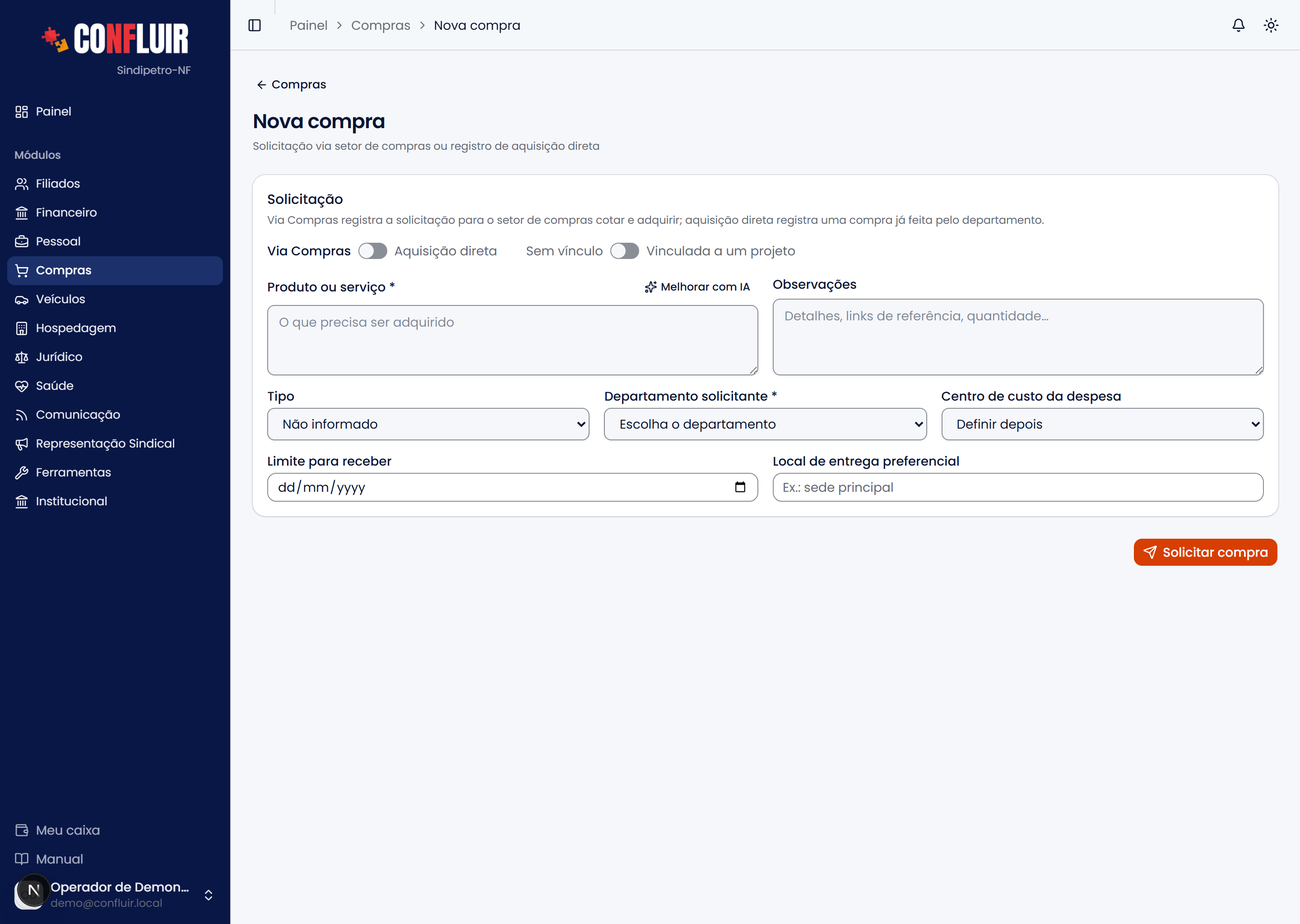
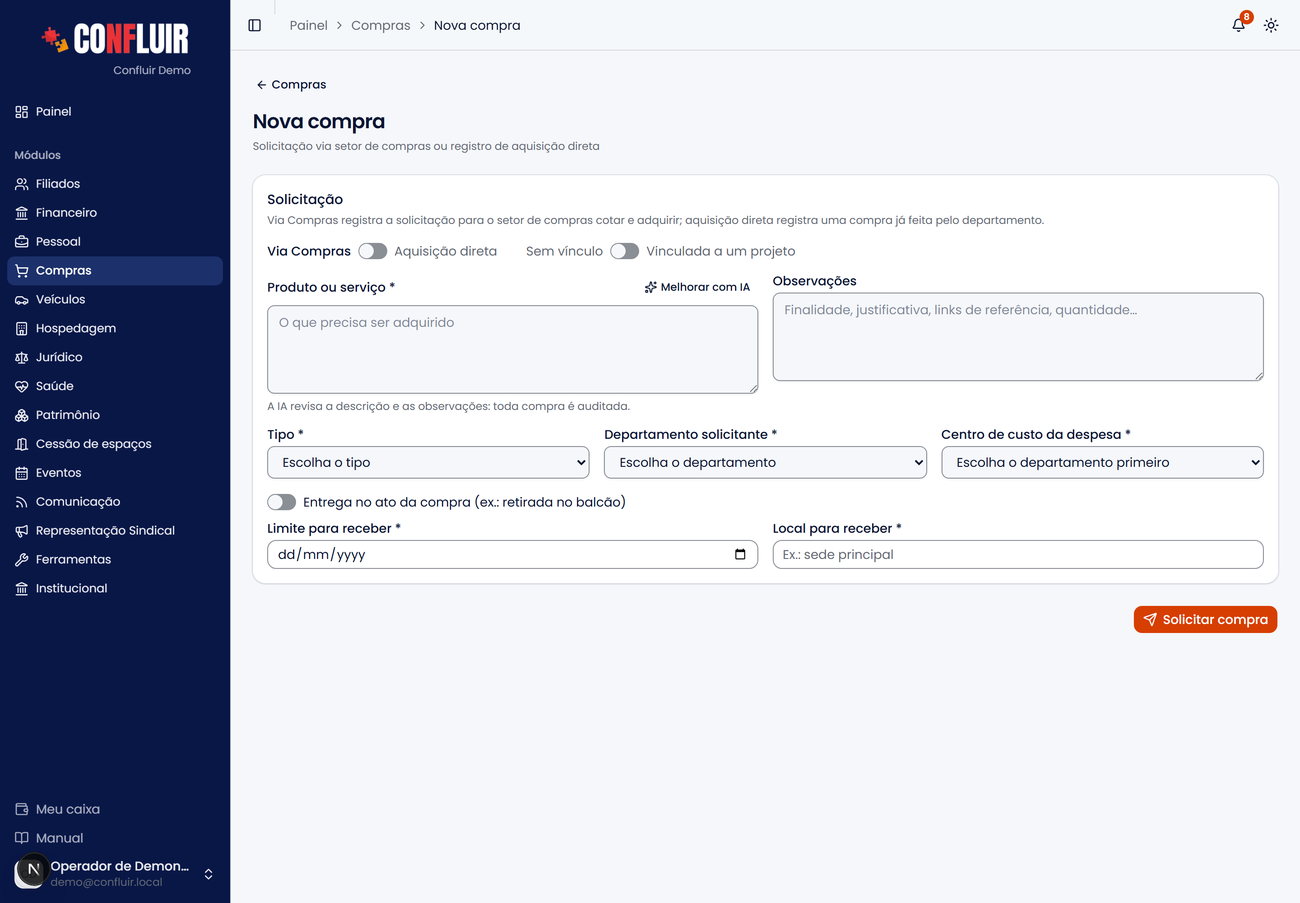
Manual: Compras (IA, semiautomático, formas de pagamento) e Financeiro → Cartões
- compras/comprar: campos obrigatórios e observação facultativa, "entregue
  no ato da compra", Melhorar com IA, modos Manual e Semiautomático, o que
  cada forma de pagamento pede e erros comuns.
- financeiro/cartoes (nova), "pago com" na ordem, compra em dinheiro no caixa.
- Prints novos pela rodada (9) do manual-prints.mjs, que ganhou `passos`.
- Trilha: "Cartões" e "Centros de custo" com acento/preposição.

diff --git a/src/lib/ajuda/base-conhecimento.ts b/src/lib/ajuda/base-conhecimento.ts
@@ -7,7 +7,7 @@ export const BASE_AJUDA: ArtigoBase[] = [
   {
     "area": "compras",
     "slug": "comprar",
-    "texto": "Toda aquisição nasce em Compras → Nova compra. No topo do formulário você\nescolhe o caminho (Via Compras ou Aquisição direta) e se a compra está\nvinculada a um projeto. O restante do formulário se adapta a essa escolha.\n\n Compras — editar \n\n Direta × via Compras: qual usar\n\n \n \nAquisição direta — a compra já foi feita: \n Use quando o departamento já adquiriu o bem ou serviço. Você registra o\n fornecedor, o valor e a nota; o sistema cria a ordem de pagamento em\n autorização na sequência. É o caminho de compras simples e do dia a dia.\n \n \nVia Compras — a compra ainda vai acontecer: \n Use quando é preciso cotar antes de comprar. O departamento apenas\n solicita; o comprador recebe, cota com fornecedores, compara as\n propostas e efetiva a compra. É o caminho de valores maiores.\n \n \n\n \n\n Quem registra e por quais departamentos\n\n- Via Compras exige a permissão Compras — editar.\n- Aquisição direta exige a permissão própria Compras — registrar\n aquisição direta. Quem tem só uma das duas vê o seletor do topo travado na\n modalidade que pode usar.\n- Departamentos: em Institucional → Usuários e permissões, cada pessoa pode\n ficar restrita a alguns departamentos. Nesse caso ela só escolhe esses\n departamentos na nova compra e, na lista, só vê as compras deles — mais as\n que ela mesma registrou. Sem departamento marcado, alcança todos. O\n comprador (setor central) continua vendo e operando todos os processos.\n- As compras antigas, sem departamento, só aparecem para quem alcança todos.\n\n Os campos comuns às duas modalidades\n\nIndependentemente do caminho, estes campos aparecem — e alguns são\nobrigatórios:\n\n- Produto ou serviço (obrigatório) — o que está sendo adquirido. O botão\n Melhorar com IA reescreve o rascunho de forma mais clara e padronizada.\n- Departamento solicitante (obrigatório) — quem está pedindo. Ele também\n filtra os centros de custo logo abaixo.\n- Centro de custo da despesa (obrigatório) — a classificação contábil. A\n lista mostra apenas os centros do departamento escolhido.\n- Vinculada a um projeto — quando ligada, aparece o campo Projeto.\n\nCentro de custo agora é obrigatório: \n A compra não é registrada sem um centro de custo da despesa. Se o campo\n estiver vazio, escolha o departamento primeiro — a lista de centros\n aparece filtrada por ele.\n \n\nProjeto define o centro automaticamente: \n Ao marcar Vinculada a um projeto e escolher o projeto, o centro de custo\n do projeto é atribuído à despesa e o campo fica travado nesse valor —\n você não precisa (nem consegue) escolher outro. Assim a despesa cai sempre no\n centro certo do projeto.\n \n\n Registrar uma aquisição direta\n\n \n \nEscolha 'Aquisição direta': \n No seletor do topo, mude para Aquisição direta. Surge o bloco com os\n dados da compra já feita.\n \n \nPreencha os campos comuns: \n Produto, departamento e centro de custo (obrigatórios), como acima.\n \n \nFornecedor, data e valor: \n Busque e selecione o fornecedor, informe a data da compra e o\n valor (todos obrigatórios).\n \n \nForma de pagamento e 'Pagar em': \n Escolha a forma de pagamento e a data em Pagar em — as duas são\n obrigatórias na aquisição direta, porque a ordem de pagamento nasce daqui.\n \n \nNota fiscal (opcional): \n Anexe o PDF da nota, se tiver. Aceita até 5 MB.\n \n \nProduto recebido?: \n A chave Produto recebido ou serviço entregue? já vem ligada. Deixe\n ligada se o item já chegou; desligue se ainda vai chegar — nesse caso ele\n entra em Recebimentos pendentes para a recepção dar baixa depois.\n \n \nCadastrar: \n Ao salvar, o processo nasce comprado e uma ordem de pagamento é\n gerada com situação Em autorização (aprovação por alçada antes do\n pagamento).\n \n \n\nForma de pagamento e 'Pagar em' são obrigatórias: \n Na aquisição direta as duas passaram a ser exigidas — sem elas a compra não é\n registrada. (Na solicitação via Compras elas não aparecem: são definidas\n depois, na proposta escolhida.)\n \n\n Solicitar via Compras\n\n \n \nDeixe em 'Via Compras': \n É o padrão do formulário. Não aparecem fornecedor nem valor — isso vem da\n cotação.\n \n \nDescreva o que precisa: \n Produto ou serviço, departamento e centro de custo. Em Observações,\n detalhe quantidade, referências e links.\n \n \nPrazo e local (opcionais): \n Limite para receber e Local de entrega preferencial orientam o\n comprador e a recepção.\n \n \nSolicitar: \n A solicitação entra na fila do comprador (situação Solicitada), pronta\n para ser cotada.\n \n \n\n O ciclo de um processo via Compras\n\nDepois de solicitado, o processo é operado pelo comprador, na Área do\ncomprador (que reúne tudo que aguarda ação) ou abrindo o processo pela lista.\nCada etapa é uma ação no próprio processo:\n\n \n \nIniciar cotação: \n Abre a cotação: a partir daí você pode lançar propostas. A situação muda para\n Em cotação.\n \n \nLançar as propostas: \n Adicione uma proposta por fornecedor: fornecedor, valor, forma de pagamento e\n previsão de entrega. Você pode adicionar quantas quiser.\n \n \nEncerrar e escolher: \n Encerre a cotação e marque a(s) proposta(s) escolhida(s). A situação vai\n para Cotada.\n \n \nRegistrar a compra: \n Confirma a compra das propostas escolhidas: cada proposta vira um\n fornecimento e o processo fica Comprado (o valor é a soma dos\n fornecimentos).\n \n \nGerar a ordem de pagamento: \n De cada fornecimento sai uma ordem em autorização — que segue para a\n aprovação por alçada, como na compra direta.\n \n \n\nÁrea do comprador: a fila de trabalho: \n Em Compras → Área do comprador, os processos via Compras aparecem\n agrupados por etapa — Solicitadas (iniciar cotação), Em cotação e\n Cotadas — a comprar — com o prazo em destaque (vermelho quando vencido).\n Clique num item para operar. Comprador \n \n\n \n\n Aprovação por alçada\n\n Avaliação de ordens (alçada) \n\nToda ordem gerada por uma compra — direta ou via Compras — passa por\nCompras → Avaliações. Cada avaliador vê as ordens dentro da sua alçada\n(o teto de valor que pode autorizar) e as acima da alçada apenas como\ncontexto, sem poder aprovar. Nada é pago antes dessa autorização.\n\nO que é alçada: \n Alçada é o valor máximo que uma pessoa pode autorizar sozinha. É definida no\n perfil de acesso, em Usuários e permissões. Uma ordem acima da sua alçada\n precisa de quem tenha alçada maior.\n \n\n Recebimento\n\nQuando o item chega, a baixa é feita em Compras → Recebimentos pendentes.\nAparecem ali a aquisição direta marcada como não recebida e os\nfornecimentos via Compras já comprados. A recepção abre o item, confere e\nregistra a chegada. Recebimentos \n\n Erros comuns\n\n- \"Não consigo salvar — o centro de custo fica vazio.\" Escolha o\n departamento primeiro; a lista de centros aparece filtrada por ele. Se a\n compra é de um projeto, marque Vinculada a um projeto — o centro vem do\n projeto automaticamente.\n- \"A forma de pagamento não deixa cadastrar a compra direta.\" Na aquisição\n direta, Forma de pagamento e Pagar em são obrigatórias.\n- O fornecedor não aparece na busca. Ele precisa estar cadastrado em\n Fornecedores e não estar bloqueado. Ver\n Fornecedores.\n- Registrei a compra mas o pagamento não sai. A ordem nasce Em\n autorização — ela só é paga depois de aprovada por quem tem alçada, em\n Avaliações.\n- Comprei via Compras mas não consigo escolher a proposta. É preciso\n encerrar a cotação antes de escolher; e escolher ao menos uma proposta\n antes de registrar a compra.\n- O item não aparece em Recebimentos. Só entra o que está por receber:\n compra direta com \"produto recebido\" desligado, ou via Compras já\n comprado. O que já foi recebido não aparece."
+    "texto": "Toda aquisição nasce em Compras → Nova compra. No topo do formulário você\nescolhe o caminho (Via Compras ou Aquisição direta) e se a compra está\nvinculada a um projeto. O restante do formulário se adapta a essa escolha.\n\n Compras — editar \n\n Direta × via Compras: qual usar\n\n \n \nAquisição direta — a compra já foi feita: \n Use quando o departamento já adquiriu o bem ou serviço. Você registra o\n fornecedor, o valor e a nota; o sistema cria a ordem de pagamento em\n autorização na sequência. É o caminho de compras simples e do dia a dia.\n \n \nVia Compras — a compra ainda vai acontecer: \n Use quando é preciso cotar antes de comprar. O departamento apenas\n solicita; o comprador recebe, cota com fornecedores, compara as\n propostas e efetiva a compra. É o caminho de valores maiores.\n \n \n\n Quem registra e por quais departamentos\n\n- Via Compras exige a permissão Compras — editar.\n- Aquisição direta exige a permissão própria Compras — registrar\n aquisição direta. Quem tem só uma das duas vê o seletor do topo travado na\n modalidade que pode usar.\n- Departamentos: em Institucional → Usuários e permissões, cada pessoa pode\n ficar restrita a alguns departamentos. Nesse caso ela só escolhe esses\n departamentos na nova compra e, na lista, só vê as compras deles — mais as\n que ela mesma registrou. Sem departamento marcado, alcança todos. O\n comprador (setor central) continua vendo e operando todos os processos.\n- As compras antigas, sem departamento, só aparecem para quem alcança todos.\n\n Os campos comuns às duas modalidades\n\nToda compra é auditada — pelo Conselho Fiscal, pela contabilidade e na\nprestação de contas à categoria. Por isso o formulário só deixa registrar com\ntudo preenchido; a única exceção é a observação.\n\n- Produto ou serviço (obrigatório) — o que está sendo adquirido: o quê,\n quanto (quantidade e unidade) e as especificações que importam.\n- Observações (facultativo) — finalidade, justificativa, referências e\n links. Não é obrigatório, mas é o que explica a despesa a quem audita depois.\n- Tipo (obrigatório) — Bem / produto ou Prestação de serviço.\n- Departamento solicitante (obrigatório) — quem está pedindo. Ele também\n filtra os centros de custo logo abaixo.\n- Centro de custo da despesa (obrigatório) — a classificação contábil. A\n lista mostra apenas os centros do departamento escolhido.\n- Vinculada a um projeto — quando ligada, o Projeto passa a ser\n obrigatório.\n- Entregue no ato da compra — diz se o produto ou serviço é entregue na\n hora (comprou no balcão e levou, o serviço foi prestado ali). Quando\n desligada, aparecem Limite para receber e Local para receber, os\n dois obrigatórios; quando ligada, eles não se aplicam e somem.\n\nMelhorar com IA: a redação que a auditoria espera: \n Escreva um rascunho — mesmo informal — em Produto ou serviço e, se\n quiser, em Observações, e clique em Melhorar com IA. A IA reescreve\n os dois textos em tom formal e impessoal, com quantidade, unidade e\n finalidade, sem inventar nada que você não escreveu (marca, valor,\n fornecedor). Observação em branco continua em branco. Confira antes de salvar:\n a responsabilidade pelo texto continua sendo de quem registra.\n \n\nCentro de custo é obrigatório: \n A compra não é registrada sem um centro de custo da despesa. Se o campo\n estiver vazio, escolha o departamento primeiro — a lista de centros\n aparece filtrada por ele.\n \n\nProjeto define o centro automaticamente: \n Ao marcar Vinculada a um projeto e escolher o projeto, o centro de custo\n do projeto é atribuído à despesa e o campo fica travado nesse valor —\n você não precisa (nem consegue) escolher outro. Assim a despesa cai sempre no\n centro certo do projeto.\n \n\n Registrar uma aquisição direta\n\nAo mudar para Aquisição direta, o formulário pergunta Como preencher?:\n\n- Manual — você digita todos os campos da compra.\n- Semiautomático — você envia a nota fiscal, o cupom ou documento\n equivalente e a IA lê o documento e preenche o formulário para você\n conferir (veja Preenchimento semiautomático pela nota, mais abaixo).\n\n \n\n \n \nEscolha 'Aquisição direta' e o modo: \n No seletor do topo, mude para Aquisição direta e escolha Manual ou\n Semiautomático. Os campos aparecem depois da escolha.\n \n \nPreencha os campos comuns: \n Produto, tipo, departamento e centro de custo (obrigatórios), como acima.\n Na compra direta, Entregue no ato da compra já vem ligada — o normal\n é o item já ter chegado.\n \n \nFornecedor, data e valor: \n Busque e selecione o fornecedor, informe a data da compra e o\n valor (todos obrigatórios).\n \n \nForma de pagamento, com o quê foi pago e 'Pagar em': \n Escolha a forma de pagamento — cada forma pede o seu complemento (veja a\n tabela abaixo) — e a data em Pagar em. Tudo obrigatório: a ordem de\n pagamento nasce daqui.\n \n \nNota fiscal (obrigatória): \n Anexe a nota fiscal, o cupom ou documento equivalente — em PDF ou\n foto (JPG, PNG ou WEBP). Fotos grandes de celular são reduzidas\n automaticamente antes do envio.\n \n \nCadastrar: \n Ao salvar, o processo nasce comprado e uma ordem de pagamento é\n gerada com situação Em autorização (aprovação por alçada antes do\n pagamento). Se você desligou Entregue no ato da compra, o item entra em\n Recebimentos pendentes para a recepção dar baixa quando chegar.\n \n \n\n Formas de pagamento: o que cada uma pede\n\nA forma sozinha não basta para a auditoria — é preciso dizer com o quê a\ncompra foi paga. Ao escolher a forma, aparece o campo correspondente:\n\n- Cartão — qual cartão da entidade foi usado. Os cartões são\n cadastrados pelo financeiro em Cartões.\n- Dinheiro — de qual conta de caixa saiu o dinheiro. O valor é\n debitado desse caixa na hora; sem saldo suficiente, a compra não é\n registrada.\n- Pix — a chave Pix do fornecedor, com o tipo. Escolha uma já\n cadastrada ou informe outra — a nova fica gravada no cadastro dele.\n- Pix (QR Code) — o código Pix copia e cola usado no pagamento (começa\n com 000201).\n- Depósito bancário (TED) — a conta do fornecedor que recebeu: escolha\n uma cadastrada ou informe banco, agência, conta, tipo e favorecido.\n- Boleto — o arquivo do boleto (PDF ou foto).\n\n \n\nA ordem mostra com o quê foi pago: \n Na ordem de pagamento gerada, o campo\n Pago com traz o cartão, o caixa, a chave ou a conta usados; o código Pix\n e o boleto ficam nos campos próprios da ordem.\n \n\nNota e boleto juntos: até 4 MB: \n A nota e o boleto vão no mesmo envio, que tem limite de cerca de 4 MB somados.\n Se passar, a tela avisa antes de enviar — prefira o PDF original a uma\n digitalização em alta resolução.\n \n\n Preenchimento semiautomático pela nota\n\n \n \nEnvie o documento: \n Escolha Semiautomático, selecione o arquivo da nota, do cupom ou do\n recibo (PDF ou foto) e clique em Ler com IA. Leva alguns segundos.\n \n \nConfira o que a IA preencheu: \n A IA preenche a descrição a partir dos itens do documento, a\n observação com os dados fiscais (número, série, data, chave de acesso,\n emitente, total, desconto e forma de pagamento), além de tipo,\n valor pago, data da compra, forma de pagamento e, quando houver\n duplicata ou boleto, o vencimento. O que ficou ilegível ou não consta no\n documento aparece num aviso amarelo, para você completar à mão.\n \n \nFornecedor: \n O sistema procura o emitente no cadastro — pelo CNPJ/CPF e, sem ele,\n pelo nome. Se encontrar, já deixa selecionado (e avisa se o achou só pelo\n nome, ou se o fornecedor está bloqueado). Se não encontrar, mostra os\n dados lidos — razão social, nome fantasia, CNPJ/CPF e endereço — para você\n conferir e clicar em Confirmar e cadastrar fornecedor. Nada é cadastrado\n sem essa confirmação.\n \n \nComplete e cadastre: \n Preencha o que a nota não traz — departamento, centro de custo, o\n complemento da forma de pagamento e Pagar em — e cadastre a compra. O\n arquivo lido já fica anexado como nota fiscal.\n \n \n\n \n\nA IA ajuda, quem registra confere: \n A leitura é boa, mas não é infalível — sobretudo em fotos tortas ou\n borradas. Confira valor, data e CNPJ com o documento antes de cadastrar; se o\n CNPJ lido não fecha nos dígitos verificadores, o sistema avisa.\n \n\n Solicitar via Compras\n\n \n \nDeixe em 'Via Compras': \n É o padrão do formulário. Não aparecem fornecedor nem valor — isso vem da\n cotação.\n \n \nDescreva o que precisa: \n Produto ou serviço, tipo, departamento e centro de custo. Em\n Observações (facultativo), detalhe finalidade, referências e links.\n \n \nEntrega: prazo e local: \n Se a entrega não for no ato da compra (o normal numa solicitação),\n informe Limite para receber e Local para receber — obrigatórios,\n porque orientam o comprador e a recepção. Se o item será retirado na hora\n (ex.: no balcão), ligue Entregue no ato da compra e os dois somem.\n \n \nSolicitar: \n A solicitação entra na fila do comprador (situação Solicitada), pronta\n para ser cotada.\n \n \n\n \n\n O ciclo de um processo via Compras\n\nDepois de solicitado, o processo é operado pelo comprador, na Área do\ncomprador (que reúne tudo que aguarda ação) ou abrindo o processo pela lista.\nCada etapa é uma ação no próprio processo:\n\n \n \nIniciar cotação: \n Abre a cotação: a partir daí você pode lançar propostas. A situação muda para\n Em cotação.\n \n \nLançar as propostas: \n Adicione uma proposta por fornecedor: fornecedor, valor, forma de pagamento e\n previsão de entrega. Você pode adicionar quantas quiser.\n \n \nEncerrar e escolher: \n Encerre a cotação e marque a(s) proposta(s) escolhida(s). A situação vai\n para Cotada.\n \n \nRegistrar a compra: \n Confirma a compra das propostas escolhidas: cada proposta vira um\n fornecimento e o processo fica Comprado (o valor é a soma dos\n fornecimentos).\n \n \nGerar a ordem de pagamento: \n De cada fornecimento sai uma ordem em autorização — que segue para a\n aprovação por alçada, como na compra direta.\n \n \n\nÁrea do comprador: a fila de trabalho: \n Em Compras → Área do comprador, os processos via Compras aparecem\n agrupados por etapa — Solicitadas (iniciar cotação), Em cotação e\n Cotadas — a comprar — com o prazo em destaque (vermelho quando vencido).\n Clique num item para operar. Comprador \n \n\n \n\n Aprovação por alçada\n\n Avaliação de ordens (alçada) \n\nToda ordem gerada por uma compra — direta ou via Compras — passa por\nCompras → Avaliações. Cada avaliador vê as ordens dentro da sua alçada\n(o teto de valor que pode autorizar) e as acima da alçada apenas como\ncontexto, sem poder aprovar. Nada é pago antes dessa autorização.\n\nO que é alçada: \n Alçada é o valor máximo que uma pessoa pode autorizar sozinha. É definida no\n perfil de acesso, em Usuários e permissões. Uma ordem acima da sua alçada\n precisa de quem tenha alçada maior.\n \n\n Recebimento\n\nQuando o item chega, a baixa é feita em Compras → Recebimentos pendentes.\nAparecem ali a aquisição direta marcada como não recebida e os\nfornecimentos via Compras já comprados. A recepção abre o item, confere e\nregistra a chegada. Recebimentos \n\n Erros comuns\n\n- \"Não consigo salvar — o centro de custo fica vazio.\" Escolha o\n departamento primeiro; a lista de centros aparece filtrada por ele. Se a\n compra é de um projeto, marque Vinculada a um projeto — o centro vem do\n projeto automaticamente.\n- \"A compra direta não é cadastrada e diz o que falta.\" Na aquisição\n direta tudo é obrigatório — inclusive Pagar em, a nota e o\n complemento da forma de pagamento (cartão, caixa, chave, conta, código Pix\n ou boleto). Só a observação é facultativa.\n- \"Não aparece nenhum cartão / nenhum caixa.\" Cartões são cadastrados pelo\n financeiro em Financeiro → Cartões; o caixa precisa estar aberto e\n abastecido em Financeiro → Contas de caixa.\n- \"Saldo insuficiente no caixa.\" A compra em dinheiro sai do caixa\n escolhido. Peça um aporte ao financeiro antes de lançar.\n- \"A IA não achou o fornecedor, mas ele existe.\" A busca é pelo CNPJ/CPF e\n pelo nome exato. Se o cadastro está com outro CNPJ (filial) ou nome\n diferente, não clique em cadastrar: busque o fornecedor certo no campo\n Fornecedor.\n- O fornecedor não aparece na busca. Ele precisa estar cadastrado em\n Fornecedores e não estar bloqueado. Ver\n Fornecedores.\n- Registrei a compra mas o pagamento não sai. A ordem nasce Em\n autorização — ela só é paga depois de aprovada por quem tem alçada, em\n Avaliações.\n- Comprei via Compras mas não consigo escolher a proposta. É preciso\n encerrar a cotação antes de escolher; e escolher ao menos uma proposta\n antes de registrar a compra.\n- O item não aparece em Recebimentos. Só entra o que está por receber:\n compra direta com Entregue no ato da compra desligada, ou via Compras já\n comprado. O que já foi recebido não aparece."
   },
   {
     "area": "compras",
@@ -22,7 +22,7 @@ export const BASE_AJUDA: ArtigoBase[] = [
   {
     "area": "compras",
     "slug": "index",
-    "texto": "O módulo Compras cobre todo o ciclo de uma aquisição: da solicitação e da\ncotação até a aprovação por alçada, a compra, o recebimento e o pagamento —\nalém dos contratos com fornecedores e do cadastro de quem fornece.\n\n Compras \n\n Dois caminhos para toda compra\n\nToda aquisição começa em Nova compra e segue por um de dois caminhos. Saber\nqual usar evita metade das dúvidas:\n\n- Aquisição direta — a compra já foi feita pelo departamento (você foi à\n loja, contratou o serviço, já tem a nota). Aqui você apenas registra o que\n aconteceu; o sistema gera a ordem de pagamento em autorização.\n- Via Compras — a compra ainda vai acontecer e precisa de cotação. O\n departamento solicita, o comprador cota com fornecedores, compara as\n propostas, escolhe e compra. É o caminho para valores maiores ou quando é\n preciso comparar preços.\n\nNa dúvida entre os dois: \n Se o dinheiro já saiu (ou a compra já está fechada), é direta. Se você\n está pedindo para o setor de compras providenciar, é via Compras.\n \n\n As áreas do módulo\n\n \n \nNova compra: \n Onde toda aquisição nasce — direta ou via Compras. Ver\n Comprar.\n \n \nÁrea do comprador: \n A fila de trabalho de quem cota e compra: os processos via Compras que\n aguardam ação, agrupados por etapa (solicitados, em cotação, cotados a\n comprar). Comprador \n \n \nAvaliações: \n A fila de ordens aguardando aprovação por alçada — cada uma cai para\n quem pode autorizar aquele valor. Nada é pago sem passar por aqui.\n Avaliação de ordens (alçada) \n \n \nRecebimentos pendentes: \n O que ainda vai chegar: aquisição direta marcada como não recebida e via\n Compras já comprado. A recepção confere e dá baixa quando o item entra.\n Recebimentos \n \n \nContratos e Fornecedores: \n Os contratos com fornecedores (vigência, aditivos e geração de ordens), as\n minutas que a IA redige e as partes assinam eletronicamente, e o cadastro de\n quem fornece (endereços, dados bancários). Ver Minutas de contrato.\n \n \n\n \n\n Quem faz o quê\n\n- O departamento solicitante abre a solicitação (via Compras) ou registra a\n compra direta que fez.\n- O comprador opera os processos via Compras: abre a cotação, lança as\n propostas, escolhe e compra. Trabalha pela Área do comprador.\n- Quem tem alçada autoriza as ordens em Avaliações, dentro do seu limite\n de valor.\n- A recepção dá baixa nas entregas em Recebimentos pendentes.\n\nCada papel é uma permissão: \n Uma mesma pessoa pode acumular papéis, mas eles são liberados separadamente em\n Institucional → Usuários e permissões (Comprador, Avaliação de ordens,\n Recebimentos, Compras — editar). Ver\n Usuários e permissões.\n \n\nAjudas institucionais não são compras: \n Apoios da entidade a organizações apoiadas ficam em Institucional → Ajudas\n institucionais, não aqui."
+    "texto": "O módulo Compras cobre todo o ciclo de uma aquisição: da solicitação e da\ncotação até a aprovação por alçada, a compra, o recebimento e o pagamento —\nalém dos contratos com fornecedores e do cadastro de quem fornece.\n\n Compras \n\n Dois caminhos para toda compra\n\nToda aquisição começa em Nova compra e segue por um de dois caminhos. Saber\nqual usar evita metade das dúvidas:\n\n- Aquisição direta — a compra já foi feita pelo departamento (você foi à\n loja, contratou o serviço, já tem a nota). Aqui você apenas registra o que\n aconteceu; o sistema gera a ordem de pagamento em autorização.\n- Via Compras — a compra ainda vai acontecer e precisa de cotação. O\n departamento solicita, o comprador cota com fornecedores, compara as\n propostas, escolhe e compra. É o caminho para valores maiores ou quando é\n preciso comparar preços.\n\nNa dúvida entre os dois: \n Se o dinheiro já saiu (ou a compra já está fechada), é direta. Se você\n está pedindo para o setor de compras providenciar, é via Compras.\n \n\n As áreas do módulo\n\n \n \nNova compra: \n Onde toda aquisição nasce — direta ou via Compras. Na compra direta, a IA\n pode ler a nota ou o cupom e preencher o formulário. Ver\n Comprar.\n \n \nÁrea do comprador: \n A fila de trabalho de quem cota e compra: os processos via Compras que\n aguardam ação, agrupados por etapa (solicitados, em cotação, cotados a\n comprar). Comprador \n \n \nAvaliações: \n A fila de ordens aguardando aprovação por alçada — cada uma cai para\n quem pode autorizar aquele valor. Nada é pago sem passar por aqui.\n Avaliação de ordens (alçada) \n \n \nRecebimentos pendentes: \n O que ainda vai chegar: aquisição direta marcada como não recebida e via\n Compras já comprado. A recepção confere e dá baixa quando o item entra.\n Recebimentos \n \n \nContratos e Fornecedores: \n Os contratos com fornecedores (vigência, aditivos e geração de ordens), as\n minutas que a IA redige e as partes assinam eletronicamente, e o cadastro de\n quem fornece (endereços, dados bancários). Ver Minutas de contrato.\n \n \n\n \n\n Quem faz o quê\n\n- O departamento solicitante abre a solicitação (via Compras) ou registra a\n compra direta que fez.\n- O comprador opera os processos via Compras: abre a cotação, lança as\n propostas, escolhe e compra. Trabalha pela Área do comprador.\n- Quem tem alçada autoriza as ordens em Avaliações, dentro do seu limite\n de valor.\n- A recepção dá baixa nas entregas em Recebimentos pendentes.\n\nCada papel é uma permissão: \n Uma mesma pessoa pode acumular papéis, mas eles são liberados separadamente em\n Institucional → Usuários e permissões (Comprador, Avaliação de ordens,\n Recebimentos, Compras — editar). Ver\n Usuários e permissões.\n \n\nAjudas institucionais não são compras: \n Apoios da entidade a organizações apoiadas ficam em Institucional → Ajudas\n institucionais, não aqui."
   },
   {
     "area": "compras",
@@ -172,7 +172,12 @@ export const BASE_AJUDA: ArtigoBase[] = [
   {
     "area": "financeiro",
     "slug": "caixa",
-    "texto": "O caixa é onde o dinheiro entra e sai. A entidade pode ter mais de um caixa\n(por sede, por finalidade), e cada um mostra o saldo e a movimentação.\n\n Caixa \n\n Saldo e movimentação\n\nCada conta de caixa lista as entradas e saídas em ordem, com o saldo\nresultante a cada lançamento. As saídas vêm das ordens de pagamento pagas;\nas entradas, das receitas e aportes lançados. O saldo de todas as contas\nabertas aparece somado no painel do Financeiro.\n\n \n\n Administração do caixa\n\n Caixa — administração \n\nAbrir uma conta, fechá-la, lançar aportes e prestar contas exige a permissão de\nadministração — separada da permissão de apenas consultar o saldo. Uma\nconta fechada fica travada para novos lançamentos.\n\nCaixa é da instituição, não um bolso pessoal: \n O caixa registra o dinheiro da entidade. Quem opera compras com um caixa vê um\n atalho Meu caixa destacado na barra lateral, para chegar rápido ao caixa\n que administra.\n \n\n Erros comuns\n\n- \"Não consigo lançar nada no caixa.\" A conta pode estar fechada, ou\n você tem só a permissão de consulta (Caixa), não a de administração.\n- \"O saldo não fecha com o extrato do banco.\" O caixa reflete o que foi\n lançado no sistema; confira se todas as saídas (ordens pagas) e entradas\n foram registradas no período.\n- \"Não vejo a área de caixa.\" Ela exige a permissão Caixa; peça a quem\n administra os acessos em Institucional → Usuários e permissões."
+    "texto": "O caixa é onde o dinheiro entra e sai. A entidade pode ter mais de um caixa\n(por sede, por finalidade), e cada um mostra o saldo e a movimentação.\n\n Caixa \n\n Saldo e movimentação\n\nCada conta de caixa lista as entradas e saídas em ordem, com o saldo\nresultante a cada lançamento. As saídas vêm das ordens de pagamento pagas e\ndas compras diretas pagas em dinheiro — que debitam o caixa escolhido no\nmomento em que são registradas (sem saldo, a compra não passa); as\nentradas, das receitas e aportes lançados. O saldo de todas as contas\nabertas aparece somado no painel do Financeiro.\n\n \n\n Administração do caixa\n\n Caixa — administração \n\nAbrir uma conta, fechá-la, lançar aportes e prestar contas exige a permissão de\nadministração — separada da permissão de apenas consultar o saldo. Uma\nconta fechada fica travada para novos lançamentos.\n\nCaixa é da instituição, não um bolso pessoal: \n O caixa registra o dinheiro da entidade. Quem opera compras com um caixa vê um\n atalho Meu caixa destacado na barra lateral, para chegar rápido ao caixa\n que administra.\n \n\n Erros comuns\n\n- \"Não consigo lançar nada no caixa.\" A conta pode estar fechada, ou\n você tem só a permissão de consulta (Caixa), não a de administração.\n- \"O saldo não fecha com o extrato do banco.\" O caixa reflete o que foi\n lançado no sistema; confira se todas as saídas (ordens pagas) e entradas\n foram registradas no período.\n- \"Não vejo a área de caixa.\" Ela exige a permissão Caixa; peça a quem\n administra os acessos em Institucional → Usuários e permissões."
+  },
+  {
+    "area": "financeiro",
+    "slug": "cartoes",
+    "texto": "Os cartões da entidade — de crédito, de débito ou pré-pagos — ficam\ncadastrados no Financeiro. É deles que sai a lista que aparece quando alguém\nregistra uma aquisição direta paga em cartão: quem registra escolhe qual\ncartão foi usado, e a ordem de pagamento guarda essa informação para a\nauditoria.\n\n Ordens de pagamento ou Caixa \n\n Cadastrar um cartão\n\n \n \nAbra Financeiro → Cartões: \n No topo da página fica o formulário Novo cartão; abaixo, a lista dos\n cartões já cadastrados.\n \n \nPreencha os dados: \n Nome do cartão (como a equipe o reconhece, ex.: \"Cartão da Sede\"),\n tipo (crédito, débito ou pré-pago), bandeira, os 4 últimos\n dígitos e, se quiser, o titular / responsável.\n \n \nCadastrar: \n O cartão passa a aparecer na nova compra, na forma de pagamento Cartão,\n como \"Cartão da Sede (Visa) — final 1234\".\n \n \n\n \n\nSó os 4 últimos dígitos: \n Por segurança, o sistema guarda apenas os 4 últimos dígitos — nunca o\n número inteiro, a validade ou o código de segurança. Não anote esses dados em\n nenhum campo do sistema.\n \n\n Desativar um cartão\n\nQuando um cartão é cancelado ou substituído, clique em Desativar na linha\ndele. Ele sai da lista de escolha da nova compra, mas continua nas compras e\nordens antigas que o usaram — o histórico não se perde. Reativar o traz de\nvolta.\n\n Erros comuns\n\n- \"O cartão não aparece na nova compra.\" Ele precisa estar ativo.\n Confira a situação na lista.\n- \"Errei um dado do cartão (ou escrevi o número inteiro no nome).\" Não há\n edição: desative esse cartão e cadastre de novo, com só os 4 últimos dígitos\n no campo próprio.\n- \"Quero saber em quais compras um cartão foi usado.\" Abra a ordem de\n pagamento: o campo Pago com mostra o cartão."
   },
   {
     "area": "financeiro",
@@ -182,12 +187,12 @@ export const BASE_AJUDA: ArtigoBase[] = [
   {
     "area": "financeiro",
     "slug": "index",
-    "texto": "O módulo Financeiro cuida do dinheiro da entidade: as ordens de\npagamento (as despesas), o caixa, os centros de custo que classificam\ncada lançamento, e as receitas — contribuições, tributos e apoios.\n\n Ordens de pagamento ou Financeiro — somente leitura \n\n As áreas do módulo\n\n \n \nOrdens de pagamento: \n Toda saída de dinheiro passa por uma ordem, que nasce Em autorização e\n percorre a alçada até ser paga. Ver\n Ordens de pagamento.\n \n \nCentros de custo: \n A classificação contábil que responde \"em que essa despesa/receita foi gasta\n ou recebida\".\n \n \nContas de caixa: \n O saldo e a movimentação — entradas e saídas — de cada caixa da entidade.\n Caixa \n \n \n\n \n\n O painel de entrada\n\nAo abrir o Financeiro, o topo traz três indicadores — ordens em aberto (o\nvalor pendente, somando o que ainda será pago), pagas neste mês e\nsaldo em contas de caixa — e um gráfico de rosca que mostra onde estão\nas ordens em aberto por situação (A pagar, Processando, Em autorização,\nAguardando informações). É a leitura rápida de \"quanto ainda há para pagar e em\nque estágio\".\n\nDe onde vêm as ordens: \n A maioria das ordens não é digitada aqui: elas nascem em outros módulos —\n Compras, Contratos, Ajudas institucionais, Veículos, Jurídico, Custeio — e\n chegam ao Financeiro Em autorização, para aprovação por alçada e pagamento.\n \n\n Erros comuns\n\n- \"O valor de 'ordens em aberto' não bate com a soma das ordens.\" O\n indicador soma o valor pendente (o que ainda será pago), não o total\n histórico. Use os filtros da lista para conferir por situação.\n- \"Não vejo o caixa.\" Consultar caixa exige a permissão Caixa; abrir e\n ajustar exige Caixa — administração. São separadas de \"Ordens de\n pagamento\"."
+    "texto": "O módulo Financeiro cuida do dinheiro da entidade: as ordens de\npagamento (as despesas), o caixa, os centros de custo que classificam\ncada lançamento, e as receitas — contribuições, tributos e apoios.\n\n Ordens de pagamento ou Financeiro — somente leitura \n\n As áreas do módulo\n\n \n \nOrdens de pagamento: \n Toda saída de dinheiro passa por uma ordem, que nasce Em autorização e\n percorre a alçada até ser paga. Ver\n Ordens de pagamento.\n \n \nCentros de custo: \n A classificação contábil que responde \"em que essa despesa/receita foi gasta\n ou recebida\".\n \n \nContas de caixa: \n O saldo e a movimentação — entradas e saídas — de cada caixa da entidade.\n Caixa \n \n \nCartões: \n Os cartões da entidade que as compras pagas em cartão apontam. Ver\n Cartões.\n \n \n\n \n\n O painel de entrada\n\nAo abrir o Financeiro, o topo traz três indicadores — ordens em aberto (o\nvalor pendente, somando o que ainda será pago), pagas neste mês e\nsaldo em contas de caixa — e um gráfico de rosca que mostra onde estão\nas ordens em aberto por situação (A pagar, Processando, Em autorização,\nAguardando informações). É a leitura rápida de \"quanto ainda há para pagar e em\nque estágio\".\n\nDe onde vêm as ordens: \n A maioria das ordens não é digitada aqui: elas nascem em outros módulos —\n Compras, Contratos, Ajudas institucionais, Veículos, Jurídico, Custeio — e\n chegam ao Financeiro Em autorização, para aprovação por alçada e pagamento.\n \n\n Erros comuns\n\n- \"O valor de 'ordens em aberto' não bate com a soma das ordens.\" O\n indicador soma o valor pendente (o que ainda será pago), não o total\n histórico. Use os filtros da lista para conferir por situação.\n- \"Não vejo o caixa.\" Consultar caixa exige a permissão Caixa; abrir e\n ajustar exige Caixa — administração. São separadas de \"Ordens de\n pagamento\"."
   },
   {
     "area": "financeiro",
     "slug": "ordens",
-    "texto": "A ordem de pagamento é o registro de uma despesa (e, às vezes, de uma\nreceita). Ela nasce Em autorização e só vira dinheiro que sai depois de\npassar pela alçada de quem pode aprovar.\n\n Ordens de pagamento ou Financeiro — somente leitura \n\n O ciclo da ordem\n\n \n \nEm autorização: \n A ordem nasce em outro módulo — Compras, Contratos, Custeio institucional,\n Diárias, RPA, Reembolsos a filiados, Reembolsos do Jurídico — já com\n favorecido, valor, vencimento e centro de custo. Não há ordem avulsa\n digitada aqui: o Financeiro autoriza e paga o que os módulos geram.\n \n \nAvaliação por alçada: \n Quem tem alçada aprova (ou recusa). O valor da ordem define quem pode\n autorizar. Nada é pago sem esse passo.\n \n \nPaga: \n Registrado o pagamento, a ordem baixa e passa a compor a movimentação do\n caixa.\n \n \n\nNunca se gera ordem já autorizada: \n Ordens vindas de outros módulos (Compras, Contratos, Ajudas, Reembolsos,\n Veículos…) sempre chegam Em autorização — a autorização é sempre um passo\n humano, pela alçada.\n \n\n A lista e os filtros\n\nA lista traz ordenação por coluna (clique em Vencimento, Pagamento ou Valor)\ne quantidade por página. Os filtros ficam num painel expansível —\nclique em Filtros para abrir:\n\n- Situação — todas, em aberto, pagas ou canceladas.\n- Tipo — Compras, Contrato, Diária, Reembolso, Custeio…\n- Favorecido — busca pelo nome do fornecedor/beneficiário.\n- Departamento e Centro de custo — encadeados: ao escolher o\n departamento, a lista de centros mostra só os dele.\n- Projeto e Forma de pagamento.\n\nOs filtros ativos viram \"etiquetas\" acima da lista; clique no x de cada uma\npara removê-la.\n\n'Favorecido', não 'beneficiário': \n O nome do campo é Favorecido em todo o sistema — é quem recebe o pagamento\n (uma empresa, um filiado ou um favorecido avulso).\n \n\n O detalhe da ordem\n\nAo abrir uma ordem, os dados vêm em cartões:\n\n- Detalhes da despesa — descrição, favorecido, tipo, valor cobrado,\n reembolso, e os documentos: nota fiscal, orçamento e boleto. Quando a\n ordem vem de uma compra, aparece também a observação da compra.\n- Detalhes do pagamento — valor pago, vencimento, data do pagamento, forma,\n código PIX, pagador, comprovante e a autorização (autorizada por quem e\n quando).\n- Centro de custo — o da despesa e o da receita.\n- Contrato vinculado — quando a ordem vem de um contrato ou de uma locação\n de veículo: objeto/finalidade, vigência, situação e o documento.\n- Projeto vinculado — quando a ordem pertence a um projeto.\n\n \n\n Registrar o pagamento\n\n Ordens de pagamento \n\nNo cartão Detalhes do pagamento, o botão Registrar pagamento abre o\nformulário: valor pago, data, centro de custo da receita e o comprovante. Ao\nsalvar, a ordem passa a Paga.\n\n Extrato em PDF\n\nO botão Extrato (PDF), no topo da ordem, gera um documento imprimível com a\nlogomarca do sindicato no cabeçalho e todos os dados da ordem. As palavras\nNota fiscal, Boleto e Comprovante viram links clicáveis dentro\ndo PDF, quando o arquivo existe.\n\n Erros comuns\n\n- \"A ordem está Em autorização e não paga.\" Falta a aprovação por alçada\n — quem tem alçada para o valor precisa autorizar (em Compras → Avaliações, para\n ordens de compra).\n- \"Escolhi um departamento e sumiram os centros.\" É o filtro encadeado: a\n lista de centros passa a mostrar só os daquele departamento. Troque o\n departamento ou limpe o filtro.\n- \"O extrato abriu sem o link da nota.\" O link só aparece quando há\n arquivo anexado (nota, boleto ou comprovante). Sem arquivo, o campo mostra\n que não foi anexado.\n- \"O filtro por projeto não traz nada.\" Só aparecem ordens vinculadas a um\n projeto; muitas ordens não têm projeto."
+    "texto": "A ordem de pagamento é o registro de uma despesa (e, às vezes, de uma\nreceita). Ela nasce Em autorização e só vira dinheiro que sai depois de\npassar pela alçada de quem pode aprovar.\n\n Ordens de pagamento ou Financeiro — somente leitura \n\n O ciclo da ordem\n\n \n \nEm autorização: \n A ordem nasce em outro módulo — Compras, Contratos, Custeio institucional,\n Diárias, RPA, Reembolsos a filiados, Reembolsos do Jurídico — já com\n favorecido, valor, vencimento e centro de custo. Não há ordem avulsa\n digitada aqui: o Financeiro autoriza e paga o que os módulos geram.\n \n \nAvaliação por alçada: \n Quem tem alçada aprova (ou recusa). O valor da ordem define quem pode\n autorizar. Nada é pago sem esse passo.\n \n \nPaga: \n Registrado o pagamento, a ordem baixa e passa a compor a movimentação do\n caixa.\n \n \n\nNunca se gera ordem já autorizada: \n Ordens vindas de outros módulos (Compras, Contratos, Ajudas, Reembolsos,\n Veículos…) sempre chegam Em autorização — a autorização é sempre um passo\n humano, pela alçada.\n \n\n A lista e os filtros\n\nA lista traz ordenação por coluna (clique em Vencimento, Pagamento ou Valor)\ne quantidade por página. Os filtros ficam num painel expansível —\nclique em Filtros para abrir:\n\n- Situação — todas, em aberto, pagas ou canceladas.\n- Tipo — Compras, Contrato, Diária, Reembolso, Custeio…\n- Favorecido — busca pelo nome do fornecedor/beneficiário.\n- Departamento e Centro de custo — encadeados: ao escolher o\n departamento, a lista de centros mostra só os dele.\n- Projeto e Forma de pagamento.\n\nOs filtros ativos viram \"etiquetas\" acima da lista; clique no x de cada uma\npara removê-la.\n\n'Favorecido', não 'beneficiário': \n O nome do campo é Favorecido em todo o sistema — é quem recebe o pagamento\n (uma empresa, um filiado ou um favorecido avulso).\n \n\n O detalhe da ordem\n\nAo abrir uma ordem, os dados vêm em cartões:\n\n- Detalhes da despesa — descrição, favorecido, tipo, valor cobrado,\n reembolso, e os documentos: nota fiscal, orçamento e boleto. Quando a\n ordem vem de uma compra, aparece também a observação da compra.\n- Detalhes do pagamento — valor pago, vencimento, data do pagamento, forma,\n pago com (nas compras diretas: o cartão da entidade, a conta de caixa, a\n chave Pix ou a conta do fornecedor usados), código PIX, pagador, comprovante e\n a autorização (autorizada por quem e quando).\n- Centro de custo — o da despesa e o da receita.\n- Contrato vinculado — quando a ordem vem de um contrato ou de uma locação\n de veículo: objeto/finalidade, vigência, situação e o documento.\n- Projeto vinculado — quando a ordem pertence a um projeto.\n\n \n\n Registrar o pagamento\n\n Ordens de pagamento \n\nNo cartão Detalhes do pagamento, o botão Registrar pagamento abre o\nformulário: valor pago, data, centro de custo da receita e o comprovante. Ao\nsalvar, a ordem passa a Paga.\n\n Extrato em PDF\n\nO botão Extrato (PDF), no topo da ordem, gera um documento imprimível com a\nlogomarca do sindicato no cabeçalho e todos os dados da ordem. As palavras\nNota fiscal, Boleto e Comprovante viram links clicáveis dentro\ndo PDF, quando o arquivo existe.\n\n Erros comuns\n\n- \"A ordem está Em autorização e não paga.\" Falta a aprovação por alçada\n — quem tem alçada para o valor precisa autorizar (em Compras → Avaliações, para\n ordens de compra).\n- \"Escolhi um departamento e sumiram os centros.\" É o filtro encadeado: a\n lista de centros passa a mostrar só os daquele departamento. Troque o\n departamento ou limpe o filtro.\n- \"O extrato abriu sem o link da nota.\" O link só aparece quando há\n arquivo anexado (nota, boleto ou comprovante). Sem arquivo, o campo mostra\n que não foi anexado.\n- \"O filtro por projeto não traz nada.\" Só aparecem ordens vinculadas a um\n projeto; muitas ordens não têm projeto."
   },
   {
     "area": "fluxos-publicos",

diff --git a/src/lib/ajuda/manifesto.ts b/src/lib/ajuda/manifesto.ts
@@ -298,6 +298,11 @@ export const AREAS_AJUDA: AreaAjuda[] = [
         titulo: "Centros de custo",
         resumo: "A classificação de despesas e receitas",
       },
+      {
+        slug: "cartoes",
+        titulo: "Cartões",
+        resumo: "Os cartões da entidade usados para pagar compras",
+      },
     ],
   },
   {

diff --git a/src/components/layout/app-header.tsx b/src/components/layout/app-header.tsx
@@ -28,6 +28,8 @@ const ROTULOS_SEGMENTO: Record<string, string> = {
   configuracoes: "Configurações",
   solicitacoes: "Solicitações",
   comparacoes: "Comparações",
+  cartoes: "Cartões",
+  "centros-custo": "Centros de custo",
 }
 
 /** Monta a trilha de breadcrumbs a partir da rota, usando os títulos dos módulos. */
